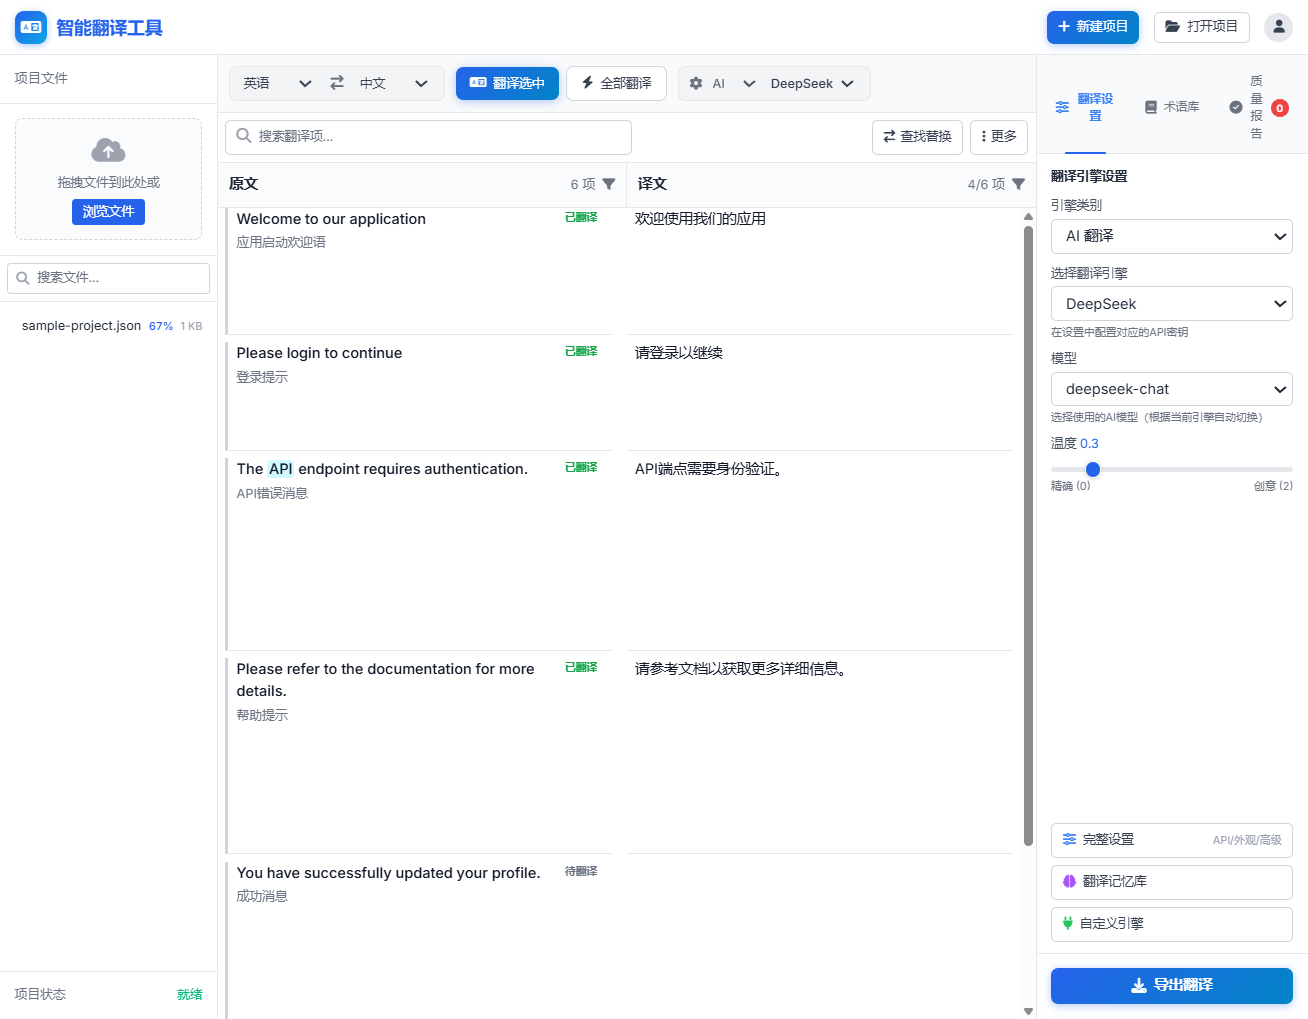
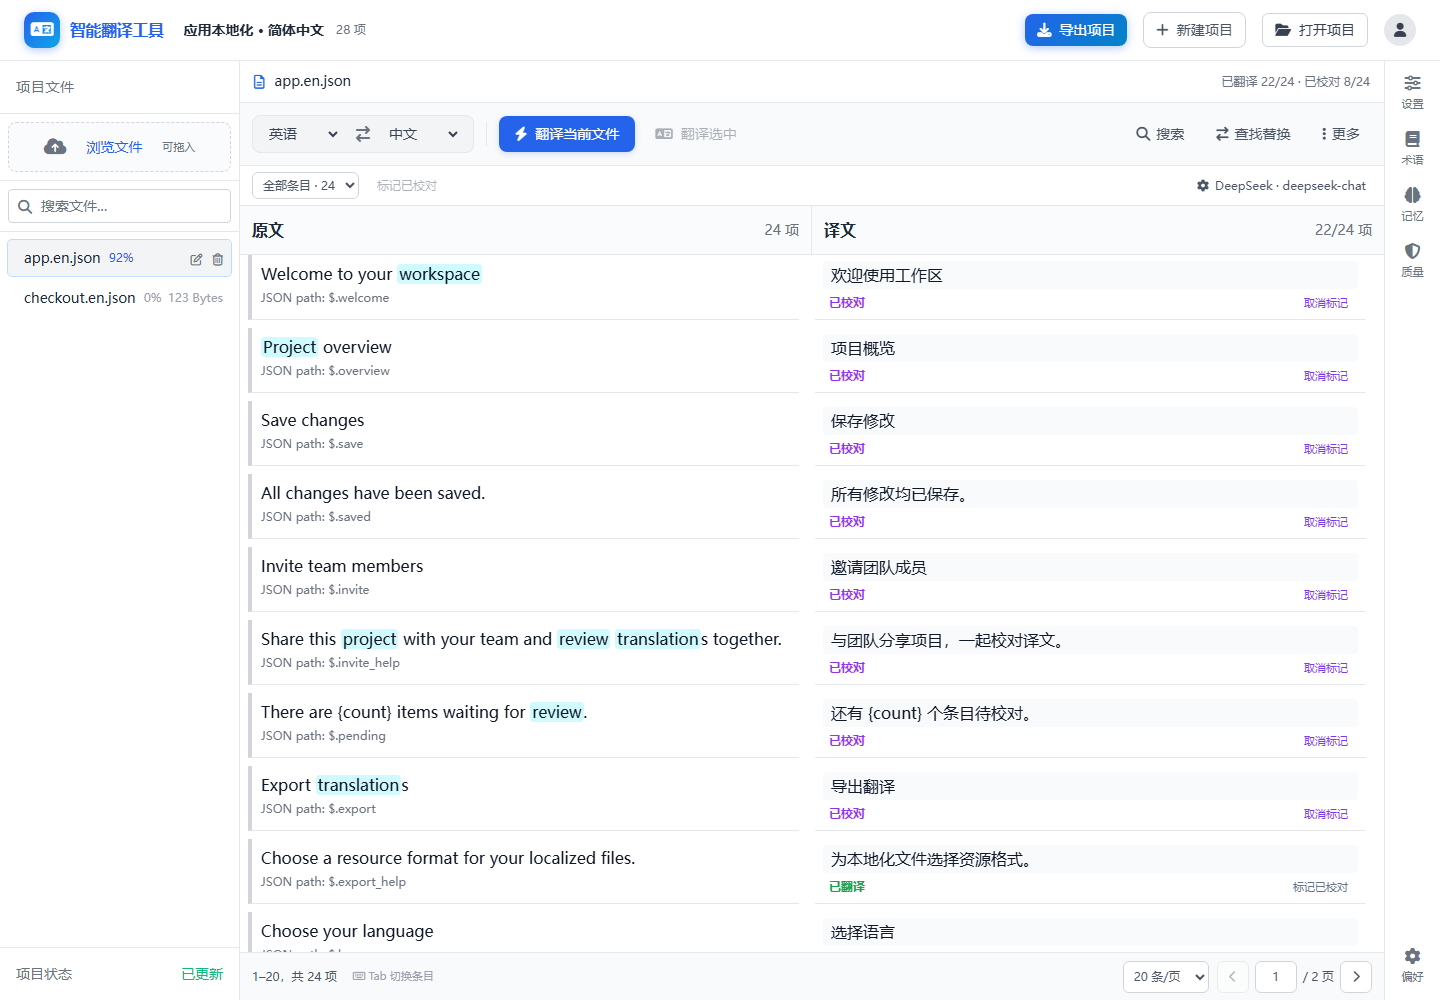
chore(release): v1.4.0 更新项目介绍与界面截图
- 更新 README 功能说明、下载入口、运行要求与已确认的格式限制
- 替换并补充 9 张当前界面的桌面、设置、帮助与手机截图
- 同步包、锁文件、关于页、文档索引和 v1.4.0 更新日志
- 增加发布说明，提供已构建的网页版本

验证：45 个测试文件 / 684 项测试、构建与架构守护通过；9 张截图无页面异常；网页压缩包解压后通过启动、版本和导入编辑导出检查。

diff --git a/public/index.html b/public/index.html
@@ -2,7 +2,7 @@
 <html lang="zh-CN">
 <head>
     <meta charset="UTF-8">
-    <meta name="application-version" content="1.3.3">
+    <meta name="application-version" content="1.4.0">
     <meta name="viewport" content="width=device-width, initial-scale=1.0">
     <meta http-equiv="Permissions-Policy" content="interest-cohort=(), user-id=(), storage-access=(self)">
     <title>智能翻译工具 - 多格式本地化翻译助手</title>
@@ -2242,7 +2242,7 @@
         <div class="modal-content about-dialog">
             <header class="about-header"><h3 id="aboutModalTitle">关于智能翻译工具</h3><button type="button" class="close-modal help-close" title="关闭关于" aria-label="关闭"><i class="fa-solid fa-xmark" aria-hidden="true"></i></button></header>
             <div class="about-content">
-                <div class="about-product"><span class="about-product-icon"><i class="fa-solid fa-language" aria-hidden="true"></i></span><div><h4>智能翻译工具 <span data-app-version class="about-version">v1.3.3</span></h4><p>多格式本地化翻译与校对工作台</p></div></div>
+                <div class="about-product"><span class="about-product-icon"><i class="fa-solid fa-language" aria-hidden="true"></i></span><div><h4>智能翻译工具 <span data-app-version class="about-version">v1.4.0</span></h4><p>多格式本地化翻译与校对工作台</p></div></div>
                 <p class="about-intro">把文件导入、批量翻译和逐条校对放在同一个工作区，整理可交付的本地化资源。</p>
                 <div class="about-capabilities"><span><i class="fa-regular fa-file-lines" aria-hidden="true"></i>多格式资源</span><span><i class="fa-solid fa-language" aria-hidden="true"></i>多引擎翻译</span><span><i class="fa-solid fa-check-double" aria-hidden="true"></i>逐条校对</span></div>
                 <section class="about-data"><h5><i class="fa-solid fa-hard-drive" aria-hidden="true"></i>本地保存，按需翻译</h5><p>项目与设置默认在本地保存。使用在线翻译时，原文及启用的上下文会发送至所选服务；自定义引擎使用你配置的端点。</p></section>

diff --git a/README.md b/README.md
@@ -1,43 +1,50 @@
-# 智能翻译工具 - 多格式本地化翻译助手
+# 智能翻译工具 · AI Localization
 
-一个功能强大的本地化翻译工具，支持多种文件格式的翻译和管理。
+面向本地化资源的 AI 翻译与校对工作台。把文件导入、批量翻译、逐条校对、术语与翻译记忆、质量检查和导出放在同一个工作区，适合处理应用文案与多语言资源文件。
+
+AI-assisted workspace for translating, reviewing and exporting localization resources.
 
 **仓库**：[https://github.com/webmturn/ai-localization](https://github.com/webmturn/ai-localization)  
-**当前版本**：v1.3.3 | [更新日志](CHANGELOG.md) | [桌面测试版下载](https://github.com/webmturn/ai-localization/releases)
+**当前版本**：v1.4.0 | [版本说明](docs/RELEASE-v1.4.0.md) | [下载与发布](https://github.com/webmturn/ai-localization/releases) | [更新日志](CHANGELOG.md)
+
+**常用流程**：打开文件 → 配置引擎 → 批量翻译 → 逐条校对 → 质量检查 → 导出交付。
+
+项目与设置默认保存在本地。使用在线引擎时，原文及启用的上下文会发送到所选服务；也可接入本地的 OpenAI 兼容服务。
 
 ## ✨ 特性
 
-- 📝 支持多种文件格式（JSON, XLIFF, PO, Excel 等，可经 ParserRegistry 注册表扩展新格式）
-- 🎨 现代化的用户界面（Tailwind CSS）
-- 📱 移动端自适应布局（底部工具栏、手势操作、模态框适配）
-- 🌙 深色模式支持
-- 💾 本地存储，无需服务器
-- 📊 翻译质量报告（支持项目级/单文件级检查范围）
-- 🔍 术语库管理
-- 📈 翻译进度跟踪
-- 🧠 上下文感知翻译（前后相邻条目语境参考）
-- 💬 多轮会话记忆（跨批次保持翻译风格一致）
-- 🎯 Priming 样本（让模型先理解文件命名风格）
-- 🔑 Key/字段名上下文（辅助 key-value 结构翻译）
-- ⏸ 批量翻译暂停/取消/重试（重试失败项；进度经自动保存持久化，重开页面可继续未完成条目）
-- 🗄 翻译请求缓存（减少重复 API 调用）
-- 🔄 多引擎支持（DeepSeek / OpenAI / Gemini / Claude / Google 翻译）
-- ✏ 源文件编辑器（文件树内直接编辑原始内容，静默重解析并保留既有译文）
-- 🖱 平滑滚动与聚焦（点击条目即聚焦译文框，rAF 动画滚动，搜索跳转支持跨页定位）
-- ⚡ JS 打包优化（多脚本合并为 1 个 bundle，消除串行加载延迟）
-- 🔔 引擎切换 Toast 通知 + 友好错误消息
-- ⏱ 批量翻译 ETA 预估（预计剩余时间）
+- **校对工作区**：校对优先与经典三栏可切换，支持面板默认状态、列表密度、主题和字体设置。
+- **翻译与校对**：当前文件或选中条目翻译，待翻译 / 待校对 / 已校对筛选，连续编辑、分页和批量查找替换。
+- **多格式资源**：JSON、XML、Android strings.xml、XLIFF、YAML、CSV / TSV、PO、RESX、iOS Strings、Qt TS 和文本。
+- **内置与自定义引擎**：DeepSeek、OpenAI、Gemini、Claude、Google 翻译，以及 OpenAI 兼容端点；支持模型获取和连接测试。
+- **AI 语境增强**：相邻上下文、Key 参考、Priming 原文样本、多轮会话记忆和项目 Prompt 模板。
+- **术语与翻译记忆**：统一固定译名，自动复用精确匹配，管理记忆记录并导出 TMX。
+- **质量检查**：按项目或文件检查术语、占位符、变量、数字、标点、长度、空译文与重复，定位问题并导出报告。
+- **项目与交付**：多项目管理，编辑源文件后重新解析，按原资源格式或通用格式导出；自动保存、备份与文件夹存储。
+- **请求控制**：暂停、继续、取消、失败重试、进度日志和预计时间；可配置并发、超时和短期缓存。
+- **帮助与移动端**：13 个帮助栏目、61 条说明及当前快捷键；手机主题导航、底部工具栏、抽屉与深色模式。
 
 ## 📸 截图预览
 
-### 主界面 — 翻译列表 + DeepSeek 引擎
-![主界面](docs/screenshots/01-main-interface.png)
+以下截图来自 v1.4.0 当前界面，使用虚构的应用文案演示数据。
+
+### 桌面工作区 — 文件、翻译与逐条校对
+![v1.4.0 桌面校对工作区](docs/screenshots/01-main-interface.png)
+
+### 帮助中心 — 功能总览与说明入口
+![帮助中心功能总览](docs/screenshots/07-help-center.png)
+
+<details>
+<summary>查看深色模式、引擎设置、质量报告、术语与手机界面</summary>
+
+### 深色工作区
+![深色校对工作区](docs/screenshots/08-main-dark.png)
+
+### 翻译引擎 — 内置服务与自定义入口
+![翻译引擎设置](docs/screenshots/06-settings-engines.png)
 
 ### 翻译质量报告
 ![质量报告](docs/screenshots/02-quality-report.png)
-
-<details>
-<summary>更多截图</summary>
 
 ### 术语库管理
 ![术语库](docs/screenshots/03-terminology.png)
@@ -48,15 +55,18 @@
 ### 设置 — 数据管理
 ![数据管理](docs/screenshots/05-settings-data.png)
 
+### 手机工作区
+![手机翻译与校对](docs/screenshots/09-mobile-workspace.png)
+
 </details>
 
 ## 🚀 快速开始
 
-> **⚠ 首次使用必读**：必须先执行 `npm install` 和 `npm run build`，否则打开页面将无样式且加载缓慢。`public/styles.css` 和 `public/app.bundle.js` 由构建生成，未提交到仓库。
+从源码运行前，请先执行 `npm ci` 和 `npm run build`。`public/styles.css` 和 `public/app.bundle.js` 是构建产物，未提交到源码仓库。发布页中的网页压缩包已包含构建产物，解压后可打开 `public/index.html`。
 
 ### 前置要求
 
-- Node.js (v18 或更高版本)
+- Node.js 20.19+、22.12+ 或 24+（建议使用当前受支持的 LTS 版本）
 - npm 或 yarn
 
 ### 安装步骤
@@ -66,7 +76,7 @@
 
 2. **安装依赖**
    ```bash
-   npm install
+   npm ci
    ```
 
 3. **构建（CSS + JS Bundle）**
@@ -76,7 +86,7 @@
    或分别构建：
    ```bash
    npm run build-css      # 构建 Tailwind CSS
-   npm run build-bundle   # 合并 121 个 JS 为 1 个 bundle
+   npm run build-bundle   # 将应用脚本合并为 1 个 bundle
    ```
 
 4. **打开应用**
@@ -96,7 +106,7 @@ html/
 ├── public/          # 发布目录（浏览器打开/部署）
 │   ├── lib/         # 第三方库（本地化）
 │   ├── index.html   # 主 HTML 文件
-│   ├── app.js       # 开发模式入口（按顺序加载 121 个脚本）
+│   ├── app.js       # 开发模式入口（按顺序加载模块）
 │   ├── app.bundle.js # 生产 bundle（构建生成，1 个文件）
 │   ├── app/         # 应用核心逻辑（模块化代码）
 │   └── styles.css   # 构建后的 CSS
@@ -113,7 +123,7 @@ npm run watch-css
 ### 运行测试与架构守护
 
 ```bash
-npm test                # 全量单元/契约测试（552 个用例、37 个测试文件，Vitest）
+npm test                # 全量单元与契约测试（Vitest）
 npm run check-state     # 状态所有权静态检查（AppState 切片写入守护）
 npm run check-globals   # 全局函数冻结检查（基线化 window 挂载）
 ```
@@ -151,6 +161,7 @@ npm run update-cdn
 ## 📚 文档
 
 ### 必读入口
+- [v1.4.0 发布说明](docs/RELEASE-v1.4.0.md)
 - [快速开始](docs/QUICK-START.md)
 - [文档索引（全部文档）](docs/INDEX.md)
 - [更新日志](CHANGELOG.md)
@@ -164,8 +175,10 @@ npm run update-cdn
 
 - **文件导入**: 支持拖放或选择文件导入
 - **翻译管理**: 可视化的翻译项管理
+- **逐条校对**: 按状态筛选条目，修改译文后确认校对标记
 - **源文件编辑**: 文件树内编辑原始文件，重解析后自动保留既有译文
 - **术语库**: 自定义术语库，提高翻译一致性
+- **翻译记忆**: 精确命中复用译文，支持记录查询和 TMX 导出
 - **导出功能**: 支持多种格式导出
 - **搜索功能**: 快速搜索翻译项并跳转定位（跨页自动翻页）
 - **分页显示**: 大量数据的分页管理
@@ -176,11 +189,16 @@ npm run update-cdn
 
 | 引擎 | 类型 | 批量翻译 | 备注 |
 |------|------|----------|------|
-| **DeepSeek** | AI | ✅ JSON 模式 | 默认引擎，性价比高 |
-| **OpenAI** | AI | ✅ JSON 模式 | GPT-4o / GPT-4o-mini |
-| **Gemini** | AI | ✅ JSON 模式 | 免费层 15 RPM，自动限速 |
+| **DeepSeek** | AI | ✅ JSON 模式 | 默认引擎，可配置模型 |
+| **OpenAI** | AI | ✅ JSON 模式 | 支持从 API 获取模型列表 |
+| **Gemini** | AI | ✅ JSON 模式 | 原生 Gemini API，带请求限速 |
 | **Claude** | AI | ✅ 原生 API | Anthropic Messages API 适配 |
 | **Google 翻译** | 传统 | ❌ 逐条 | 需 API Key |
+| **自定义引擎** | AI | ✅ 兼容接口 | OpenAI 兼容端点，可接入本地服务 |
+
+引擎、密钥、模型和请求参数位于「偏好 → 翻译引擎」。自定义服务可从该页面直接管理。完整设置中的修改在点击「保存设置」后生效。
+
+术语库支持 CSV / JSON 导入和 Excel 等格式导出；翻译资源导入不包含 `.xlsx`。翻译记忆库当前支持 TMX 导出，没有 TMX 导入入口。
 
 ### 🧠 AI 翻译增强
 
@@ -192,6 +210,8 @@ npm run update-cdn
 | **Key/字段名参考** | 翻译时参考 key 名称辅助判断语义 |
 | **术语库匹配** | 翻译时自动匹配术语库，优先使用指定译名 |
 | **请求缓存** | 相同请求复用结果，可配置 TTL |
+| **翻译记忆** | 相同原文与语言对的精确命中直接复用，跳过 API 请求 |
+| **项目 Prompt 模板** | 按项目设置 System Prompt 和单条 / 批量覆盖模板 |
 | **批量分块** | 自动分块，支持自定义 items/chars 上限 |
 
 ### 📱 移动端优化
@@ -217,7 +237,7 @@ npm run update-cdn
 
 - **前端框架**: 原生 JavaScript (现代化架构系统)
 - **样式框架**: Tailwind CSS (本地构建)
-- **图标库**: Font Awesome 4.7.0 (本地化)
+- **图标库**: Font Awesome 6.7.2 (本地化)
 - **图表库**: Chart.js 4.5.1 (本地化)
 - **Excel 处理**: SheetJS 0.20.1 (本地化)
 - **构建工具**: Node.js 脚本 (CSS: Tailwind CLI, JS: 自定义 bundle)

diff --git a/docs/RELEASE-v1.4.0.md b/docs/RELEASE-v1.4.0.md
@@ -1,0 +1,58 @@
+# v1.4.0 · 校对工作区、引擎修复与帮助中心
+
+发布日期：2026-10-07
+
+项目：[webmturn/ai-localization](https://github.com/webmturn/ai-localization)
+
+版本：[v1.4.0](https://github.com/webmturn/ai-localization/releases/tag/v1.4.0)
+
+本版围绕「打开文件 → 批量翻译 → 逐条校对 → 检查与导出」更新工作区，让当前文件、处理范围、校对状态和常用操作更容易确认。同时修复翻译结果错位、取消失效、设置草稿覆盖及资源导出中的数据问题。
+
+## 桌面与校对体验
+
+- 支持校对优先与经典三栏布局，面板默认状态、列表密度、主题和字体可在偏好中调整。
+- 优化项目与文件信息、工具栏、资源入口、状态筛选、分页和页码跳转。
+- 通过待翻译、待校对和已校对安排处理顺序，支持连续编辑、批量校对及查找替换。
+- 自定义引擎入口位于引擎设置中，翻译记忆可从工作区与帮助说明打开。
+
+![v1.4.0 桌面校对工作区](https://raw.githubusercontent.com/webmturn/ai-localization/v1.4.0/docs/screenshots/01-main-interface.png)
+
+## 翻译与交付可靠性
+
+- AI 批量结果按独立条目 id 匹配，拒绝重复、遗漏和未知 id，避免将译文写给错误原文。
+- 不再静默截断超过 10000 字符的原文；输出被截断时记为失败。
+- 取消检查覆盖排队、限速等待、发送与返回，旧批次不会在重启后恢复请求。
+- 设置草稿支持保存和取消，模型获取读取新填写的密钥；0 次追加重试、并发上限和模型缓存按配置生效。
+- 批量翻译优先复用精确翻译记忆，未命中的条目才进入 API。
+- 修复 JSON、YAML、XLIFF、Android、PO、Qt TS 和 iOS Strings 的确认导出问题，以及占位符与术语处理问题。
+
+## 帮助与关于
+
+- 帮助中心包含 13 个栏目、61 条说明和 18 项当前生效的快捷键。
+- 覆盖项目文件、翻译校对、引擎、AI 增强、Prompt、术语、记忆、质量、导出、偏好和备份。
+- 桌面使用主题目录，手机使用主题选择；保留阅读位置与问答状态，说明可跳转到相关设置。
+- 关于页与包版本同步，提供源码、更新日志、反馈入口和版本信息复制。
+
+![帮助中心功能总览](https://raw.githubusercontent.com/webmturn/ai-localization/v1.4.0/docs/screenshots/07-help-center.png)
+
+## 使用与升级
+
+发布附件 `ai-localization-v1.4.0-web.zip` 是已构建的网页版本。解压后打开 `public/index.html`，或将 `public/` 目录部署到静态服务器。无需重新安装 npm 依赖。
+
+从源码运行时，使用 Node.js 20.19+、22.12+ 或 24+，执行：
+
+```bash
+npm ci
+npm run build
+```
+
+升级前可在「偏好 → 数据管理」备份项目与设置。旧版 Windows 桌面预览安装包仍位于 v1.1.0 发布页；本次附件为网页版本。
+
+## 验证
+
+- 45 个测试文件、684 项单元与契约测试通过。
+- CSS、JavaScript 和生产构建通过；状态所有权与全局函数检查通过。
+- 本地隔离浏览器覆盖引擎设置、校对分页、帮助关于，以及桌面、手机、深浅主题与大字体。
+- 翻译接口使用模拟响应验证，没有使用真实密钥调用付费服务。
+
+完整变更见 [CHANGELOG](https://github.com/webmturn/ai-localization/blob/v1.4.0/CHANGELOG.md)。

diff --git a/CHANGELOG.md b/CHANGELOG.md
@@ -6,6 +6,35 @@
 
 ## [Unreleased]
 
+后续变更将在此记录。
+
+## [v1.4.0] — 2026-10-07
+
+本版更新桌面翻译与校对工作区，完善帮助中心，并修复翻译请求、资源导出和设置保存中的确认问题。
+
+### 本版新增与优化
+
+- 可配置「校对优先 / 经典三栏」布局、面板默认状态和列表密度；整理术语、记忆、自定义引擎及偏好入口。
+- 改进项目与文件信息层级、条目状态筛选、连续编辑、校对标记、分页与页码跳转。
+- 帮助中心补齐 13 个栏目、61 条说明和 18 项实时快捷键，说明内可打开对应设置和资源窗口；按要求移除帮助搜索框。
+- 关于页面增加应用介绍、包版本同步、源码与反馈链接，以及版本信息复制和手动复制回退。
+- 更新 GitHub 项目介绍、README 和当前界面截图。
+
+### 翻译引擎修复
+
+- 批量响应按独立条目 id 匹配，拒绝重复、遗漏和未知 id，避免错位写入。
+- 保留完整原文，识别被截断的输出；检查取消状态，避免旧批次在重启后恢复请求。
+- 保存并发、超时和重试参数，支持 0 次追加重试；批量翻译优先复用精确翻译记忆。
+- 引擎、温度和模型获取使用设置草稿；取消不覆盖已保存配置，获取模型读取表单中的新密钥。
+- 校验有效模型选择，自定义服务配置变化后清理旧模型缓存，更新停用的 Gemini 默认模型。
+
+### 验证
+
+- 45 个测试文件、684 项测试通过；构建、状态所有权与全局函数检查通过。
+- 已完成引擎设置、校对与分页、帮助与关于的隔离浏览器验证，覆盖桌面、手机、深浅主题和大字体。
+
+以下记录保留各开发阶段的审查过程和当时的测试数量。最终版本说明见 [v1.4.0 发布说明](docs/RELEASE-v1.4.0.md)。
+
 > 一次功能性审查后的集中修复：修掉多处**静默数据损坏**（导出写入 0 条译文、XLIFF 含实体时译文丢失、
 > 术语替换改坏单词）、**未生效的承诺**（暂停是死代码、取消后仍继续请求、占位符校验从未启用），
 > 以及构建/CI 的完整性缺口。测试从 373 增至 504 个用例。

diff --git a/docs/INDEX.md b/docs/INDEX.md
@@ -1,7 +1,7 @@
 # 文档索引
 
 **项目**: 智能翻译工具 (AI Localization)  
-**最后更新**: 2026-08-30（v1.3.3）
+**最后更新**: 2026-10-07（v1.4.0）
 
 ---
 
@@ -47,6 +47,7 @@
 
 | 文档 | 说明 |
 |------|------|
+| [RELEASE-v1.4.0.md](RELEASE-v1.4.0.md) | v1.4.0 发布说明（校对工作区、引擎修复与帮助中心） |
 | [RELEASE-v1.3.3.md](RELEASE-v1.3.3.md) | ⭐ v1.3.3 发布说明（并发分块 + 状态所有权重构 + UI 交互修复） |
 | [RELEASE-v1.2.0.md](RELEASE-v1.2.0.md) | v1.2.0 发布说明（多引擎支持 + JS Bundle + UI/UX） |
 | [RELEASE-v1.1.0.md](RELEASE-v1.1.0.md) | v1.1.0 发布说明（移动端优化 + 桌面客户端预览） |
